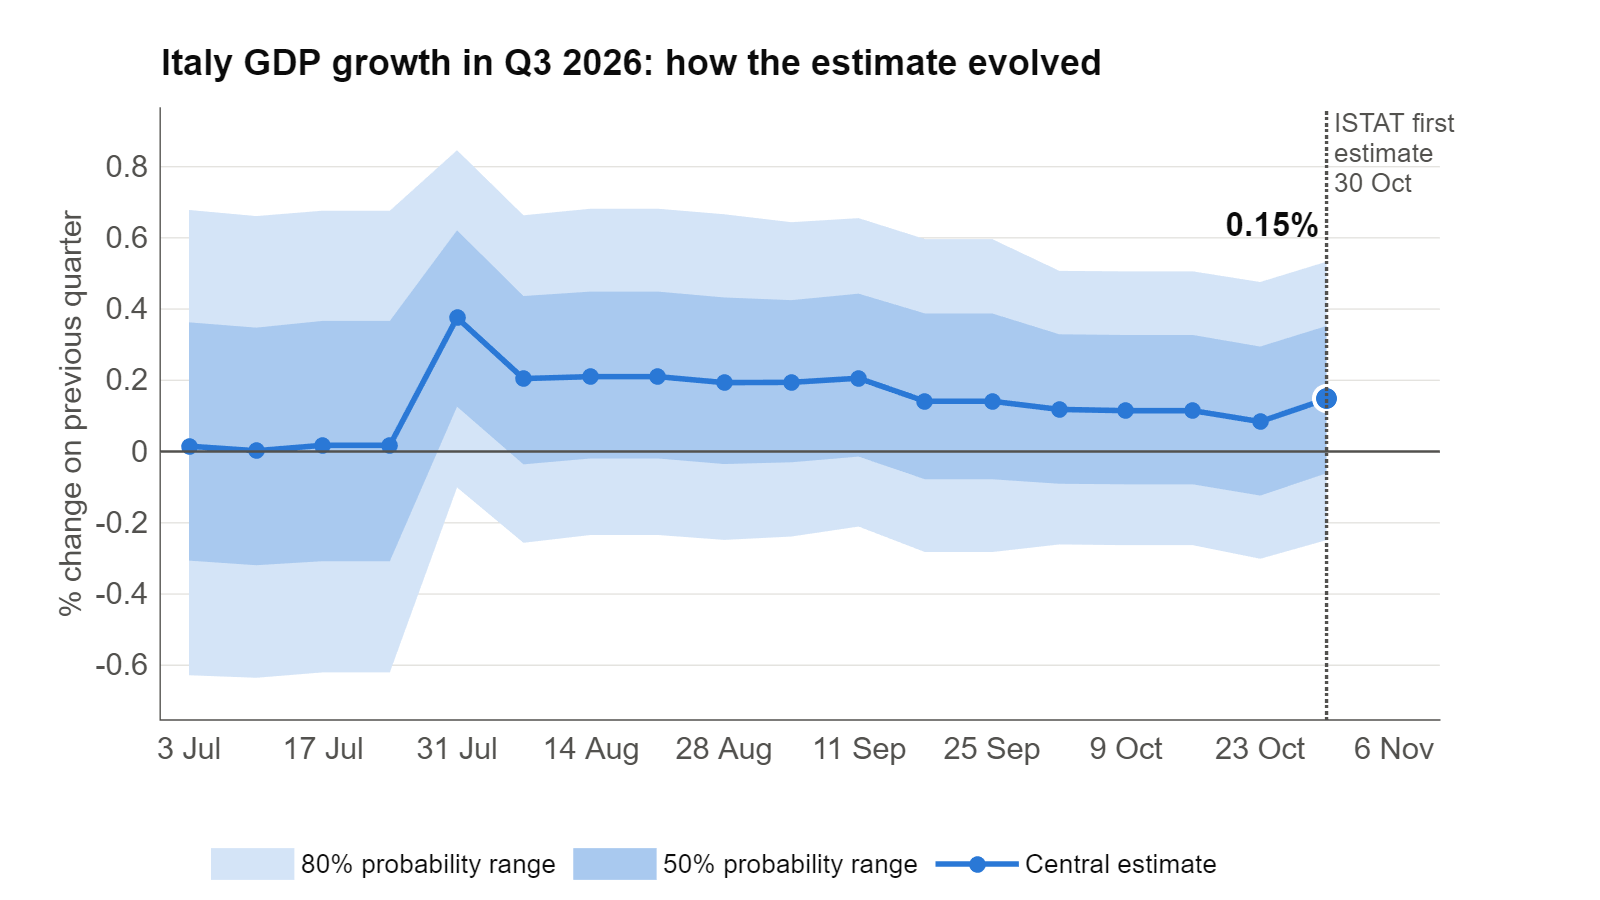
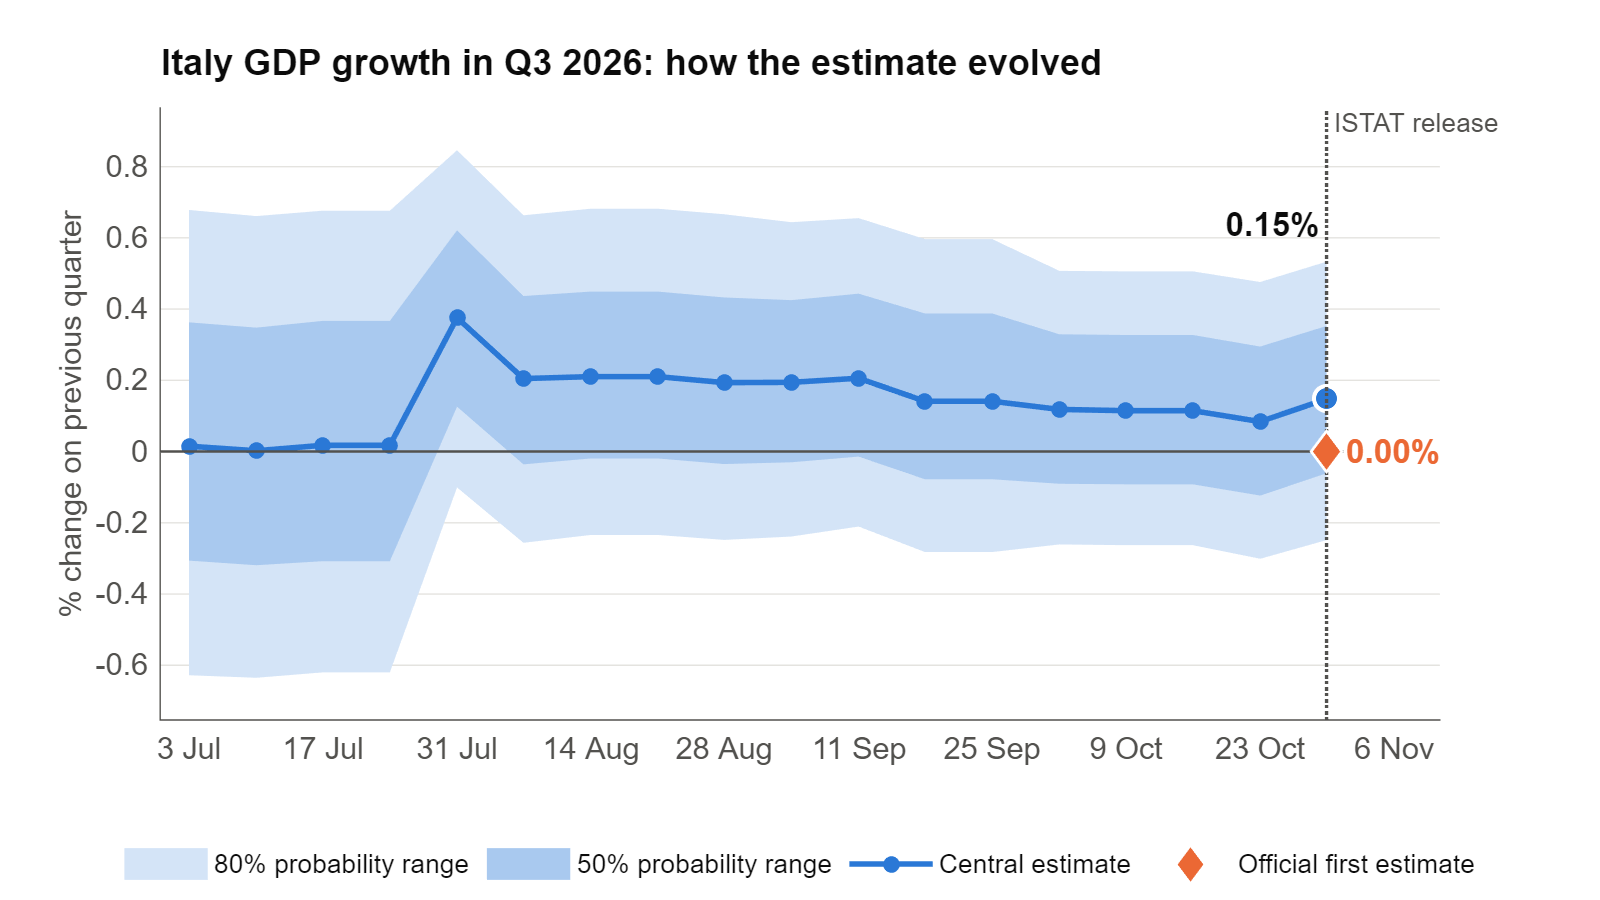
Update GDP nowcast

Changed region(s): [[0.0625, 0.9333, 0.9062, 0.9956], [0.8125, 0.4667, 0.9062, 0.5289], [0.8438, 0.1244, 0.9375, 0.2178]]

diff --git a/_pages/nowcast.md b/_pages/nowcast.md
@@ -13,6 +13,12 @@ This is our final estimate for Q3 2026, made with the data available before ISTA
 
 <!-- release-update -->
 
+**Update, 30 October 2026 at 11:15:** ISTAT's preliminary estimate puts Italy's GDP growth in Q3 2026 at **0%** on the previous quarter.
+Our final nowcast, published on 30 October 2026 at 08:12 with the data available before the release, was **0.15%** (80% range -0.25% to 0.53%). The chart below shows both.
+{: .notice--info}
+
+<!-- /release-update -->
+
 *Updated every Friday. Next official figure: ISTAT preliminary estimate for Q3 2026, due 30 October 2026.*
 
 {% capture itnow_block %}{% include nowcast_intro.md %}{% endcapture %}
